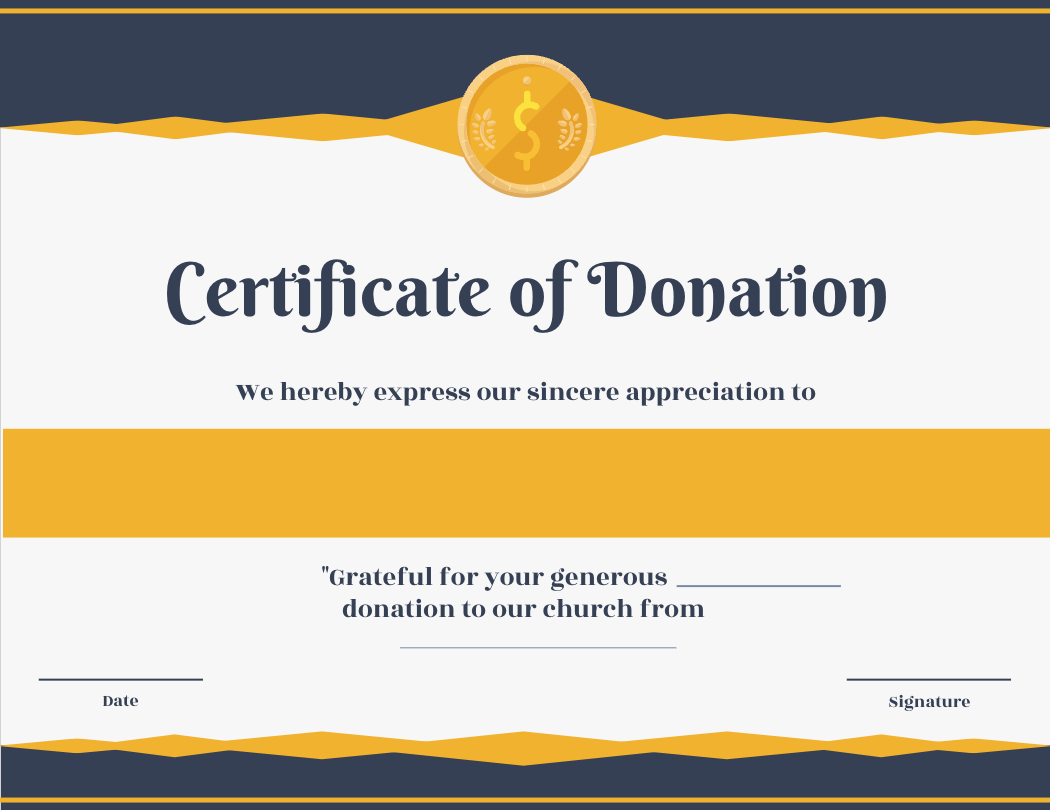
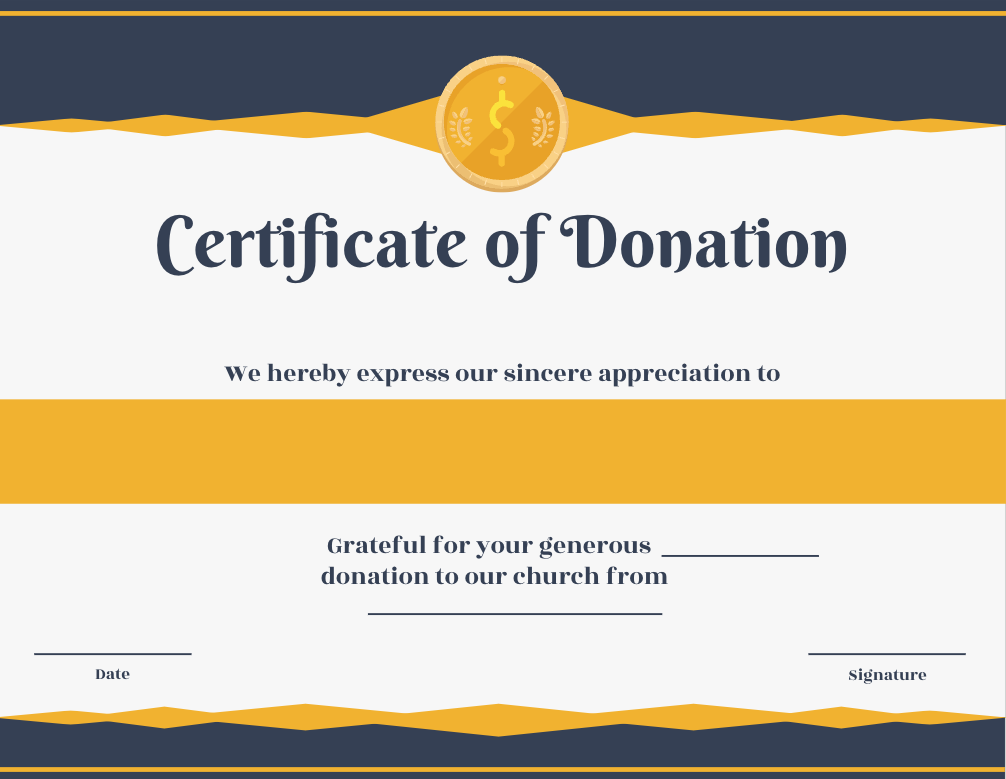
fix: small changes

diff --git a/client/src/container/Certificate/index.tsx b/client/src/container/Certificate/index.tsx
@@ -46,7 +46,7 @@ const Certificate = () => {
     endDate: null,
   });
   const [display, setDisplay] = useState(false);
-
+  const [churchName, setChurchName] = useState("Enter Church Name");
   const { data: donorList, isLoading: donorLoading } = useGetDonorsQuery();
   const { data: donationList, isLoading: donationLoading } =
     useGetDonationsQuery();
@@ -71,7 +71,7 @@ const Certificate = () => {
       (donor: any) => donor?.donorId === selectedDonor
     );
     return matchedDonorData[0];
-  }, [selectedDonor]);
+  }, [selectedDonor, donationList]);
 
   const donorIdOption = useMemo(() => {
     if (!donorList) return [];
@@ -119,6 +119,8 @@ const Certificate = () => {
     });
   };
   const sendCertificate = useCallback(() => {
+    console.log(donorInformation);
+    if (!donorInformation?.email) return;
     if (ref.current === null) {
       return;
     }
@@ -133,9 +135,24 @@ const Certificate = () => {
       .catch((err) => {
         console.log(err);
       });
-  }, [ref]);
+  }, [ref, selectedDonor, donorInformation]);
 
-  console.log(donorInformation);
+  const downloadCertificate = useCallback(() => {
+    if (ref.current === null) {
+      return;
+    }
+
+    toPng(ref.current, { cacheBust: true })
+      .then((dataUrl) => {
+        const link = document.createElement("a");
+        link.download = `${donorInformation?.full_name ?? "certificate"}.png`;
+        link.href = dataUrl;
+        link.click();
+      })
+      .catch((err) => {
+        console.log(err);
+      });
+  }, [ref, donorInformation]);
 
   return (
     <Fragment>
@@ -177,6 +194,25 @@ const Certificate = () => {
                 >
                   <RangePicker onChange={handleDateChange} />
                 </Form.Item>{" "}
+                <Form.Item
+                  name="name"
+                  label="Church Name"
+                  rules={[
+                    {
+                      required: true,
+                      message: "Please enter your church name!",
+                    },
+                  ]}
+                  initialValue={churchName}
+                >
+                  <Input
+                    placeholder="Enter church name"
+                    maxLength={25}
+                    value={churchName}
+                    defaultValue={churchName}
+                    onChange={(e: any) => setChurchName(e.target.value)}
+                  />
+                </Form.Item>
               </Flex>
             </Col>
             <Col span={24}>
@@ -249,8 +285,27 @@ const Certificate = () => {
                     <div
                       style={{
                         position: "absolute",
-                        bottom: "302px",
-                        left: "2px",
+                        bottom: "445px",
+                        left: "-10px",
+                        display: "flex",
+                        justifyContent: "center",
+                        width: "1050px",
+                        fontSize: "16px",
+                        fontWeight: "600",
+                        color: "#353F55",
+                        letterSpacing: "1px",
+                        fontFamily: "serif",
+                        textAlign: "center",
+                        textTransform: "capitalize",
+                      }}
+                    >
+                      {churchName}
+                    </div>
+                    <div
+                      style={{
+                        position: "absolute",
+                        bottom: "305px",
+                        left: "-10px",
                         display: "flex",
                         justifyContent: "center",
                         width: "1050px",
@@ -312,8 +367,8 @@ const Certificate = () => {
                     <div
                       style={{
                         position: "absolute",
-                        bottom: "166px",
-                        left: "17px",
+                        bottom: "170px",
+                        left: "16px",
                         display: "flex",
                         justifyContent: "center",
                         width: "100%",
@@ -367,6 +422,13 @@ const Certificate = () => {
                   }}
                 >
                   Generate Certificate
+                </Button>
+                <Button
+                  type="dashed"
+                  disabled={!display}
+                  onClick={downloadCertificate}
+                >
+                  Download
                 </Button>
                 <Button
                   type="primary"

diff --git a/client/src/container/Donation/DonationForm.tsx b/client/src/container/Donation/DonationForm.tsx
@@ -36,7 +36,13 @@ const DonationForm: React.FC<any> = ({ initialValues }) => {
     initialValues ? initialValues?.donorId : null
   );
   const [selectedMode, setSelectedMode] = useState(
-    initialValues?.mode === "Card Payment" ? "Card Payment" : ""
+    initialValues?.mode?.length > 0 ? initialValues?.mode : ""
+  );
+
+  const [selectedType, setSelectedType] = useState(
+    initialValues?.donationType?.length > 0
+      ? initialValues?.donationType
+      : "Regular Offering"
   );
 
   const todayYear = new Date().getFullYear();
@@ -213,6 +219,27 @@ const DonationForm: React.FC<any> = ({ initialValues }) => {
 
         <Col span={screen?.xs ? 24 : 6}>
           <Form.Item
+            label="Donation Type"
+            name="donationType"
+            rules={[
+              { required: true, message: "Please, select donation type" },
+            ]}
+            initialValue={selectedType ?? null}
+          >
+            <Select
+              allowClear
+              placeholder="Select donation type"
+              onChange={(value: string) => setSelectedType(value)}
+              options={[
+                { value: "Regular Offering", label: "Regular Offering" },
+                { value: "Special Gift", label: "Special Gift" },
+              ]}
+            />
+          </Form.Item>
+        </Col>
+
+        <Col span={screen?.xs ? 24 : 6}>
+          <Form.Item
             label="Donation Amount"
             name="amount"
             rules={[
@@ -260,10 +287,17 @@ const DonationForm: React.FC<any> = ({ initialValues }) => {
               allowClear
               placeholder="Select payment mode"
               onChange={(value: string) => setSelectedMode(value)}
-              options={[
-                { value: "Cash", label: "Cash" },
-                { value: "Card Payment", label: "Card Payment" },
-              ]}
+              options={
+                selectedType === "Special Gift"
+                  ? [
+                      { value: "Food", label: "Food" },
+                      { value: "Clothes", label: "Clothes" },
+                    ]
+                  : [
+                      { value: "Cash", label: "Cash" },
+                      { value: "Card Payment", label: "Card Payment" },
+                    ]
+              }
             />
           </Form.Item>
         </Col>

diff --git a/server/src/controllers/certificate.ts b/server/src/controllers/certificate.ts
@@ -3,34 +3,12 @@ import fs from "fs";
 import path from "path";
 import mailSender from "../utils/nodemailer";
 
-// export const emailCertificate = async (req: Request, res: Response) => {
-//   try {
-//     const fileName = req.file?.filename;
-//     const fileUrl = `${process.env.BASE_URL}/upload/image/${fileName}`;
-
-//     const to = "sonupun500@gmail.com";
-//     const subject = "Church -- Certificate";
-//     const from = "churchdonation@gmail.com";
-//     const html = `Keep certificate`;
-
-//     console.log(fileName);
-
-//     const mailData = await mailSender(to, subject, from, html);
-
-//     return res.status(200).json({
-//       message: "File uploaded sucessfully !",
-//       data: { fileUrl },
-//       mailData,
-//     });
-//   } catch (error) {
-//     return res.status(500).json({ message: "Error!", error });
-//   }
-// };
-
 export const emailCertificate = async (req: Request, res: Response) => {
   try {
     const imageData = req.body.imageData;
     const email = req.body.email;
+
+    console.log(email);
 
     if (!imageData || !email) {
       return res.status(400).json({ message: "Missing image or email data" });

diff --git a/client/src/container/Dashboard/index.tsx b/client/src/container/Dashboard/index.tsx
@@ -4,13 +4,12 @@ import {
   TeamOutlined,
   UserOutlined,
 } from "@ant-design/icons";
-import { Card, Col, Divider, Grid, Row, Statistic, Typography } from "antd";
-import moment from "moment";
-import React, { Fragment, useMemo } from "react";
+import { Card, Col, Divider, Grid, Row, Statistic } from "antd";
+
+import { Fragment, useMemo } from "react";
 import CsBreadcumb from "../../component/Breadcumb";
 import { useGetDonationsQuery } from "../../services/donation";
 import { useGetDonorsQuery } from "../../services/donor";
-import { rawDate } from "../../utils/help";
 import DonationChart from "./DonationChart";
 import DonorChart from "./DonorChart";
 

diff --git a/client/src/container/Dashboard/DonationChart.tsx b/client/src/container/Dashboard/DonationChart.tsx
@@ -9,8 +9,6 @@ import {
   XAxis,
   YAxis,
 } from "recharts";
-import { useGetDonationsQuery } from "../../services/donation";
-import { useGetDonorsQuery } from "../../services/donor";
 
 interface IProps {
   donationList: any;

diff --git a/server/src/models/dontation.ts b/server/src/models/dontation.ts
@@ -34,6 +34,9 @@ const donationSchema: Schema<IDonation> = new mongoose.Schema(
     donorDetails: {
       type: Object,
     },
+    donationType: {
+      type: String,
+    },
   },
   { timestamps: true }
 );

diff --git a/server/src/types/index.ts b/server/src/types/index.ts
@@ -27,4 +27,5 @@ export interface IDonation extends Document {
   note?: string;
   donationDate: string;
   donorDetails?: object;
+  donationType: string;
 }
